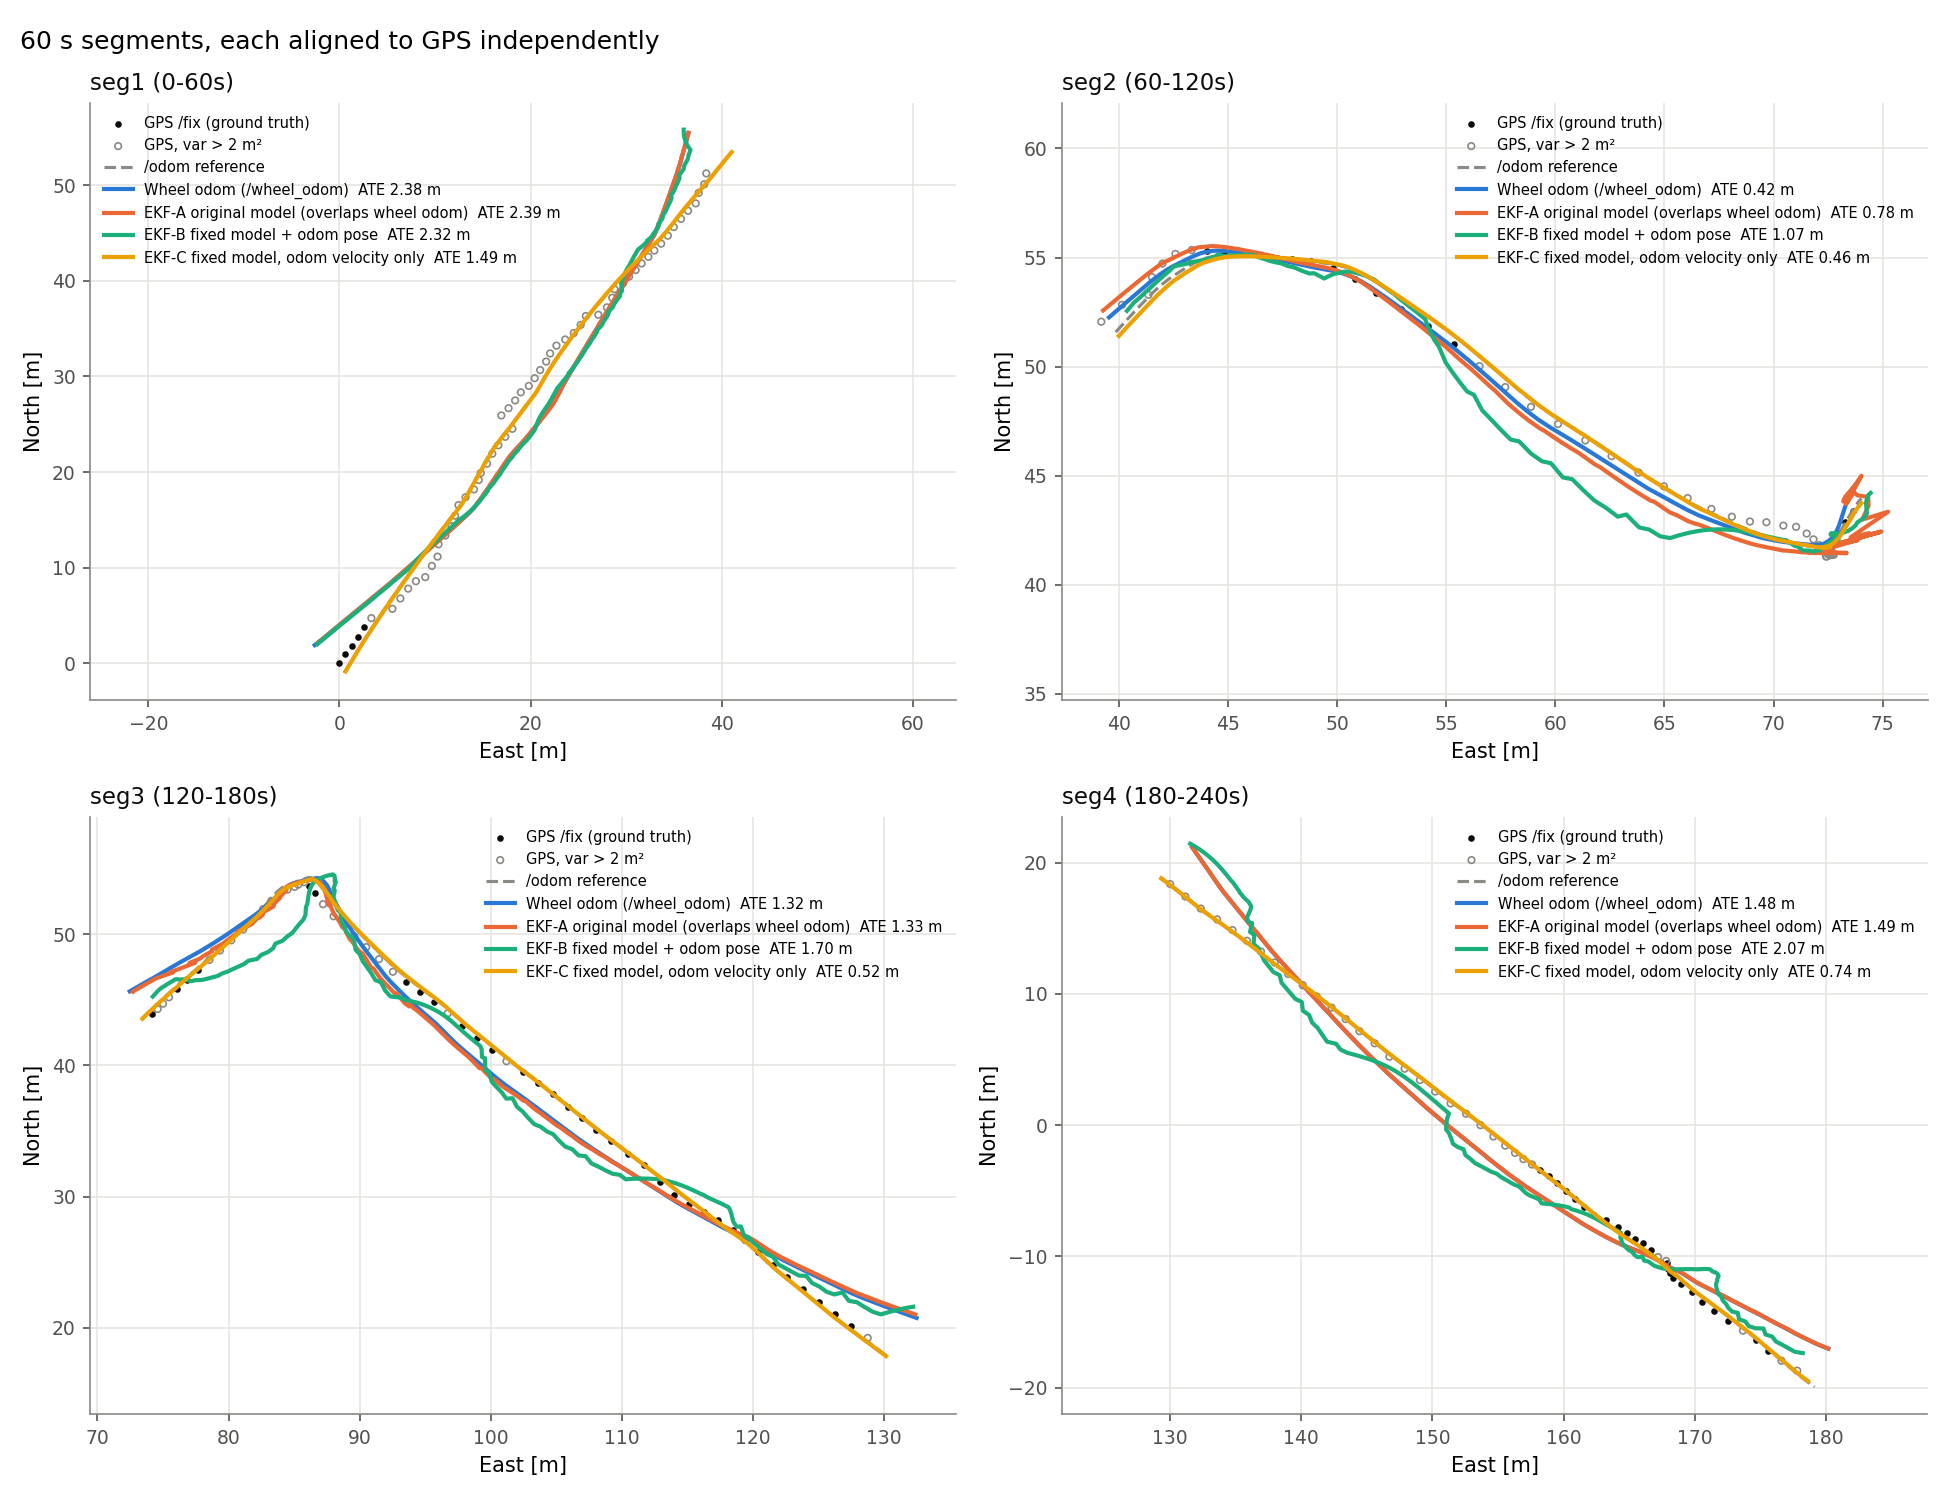
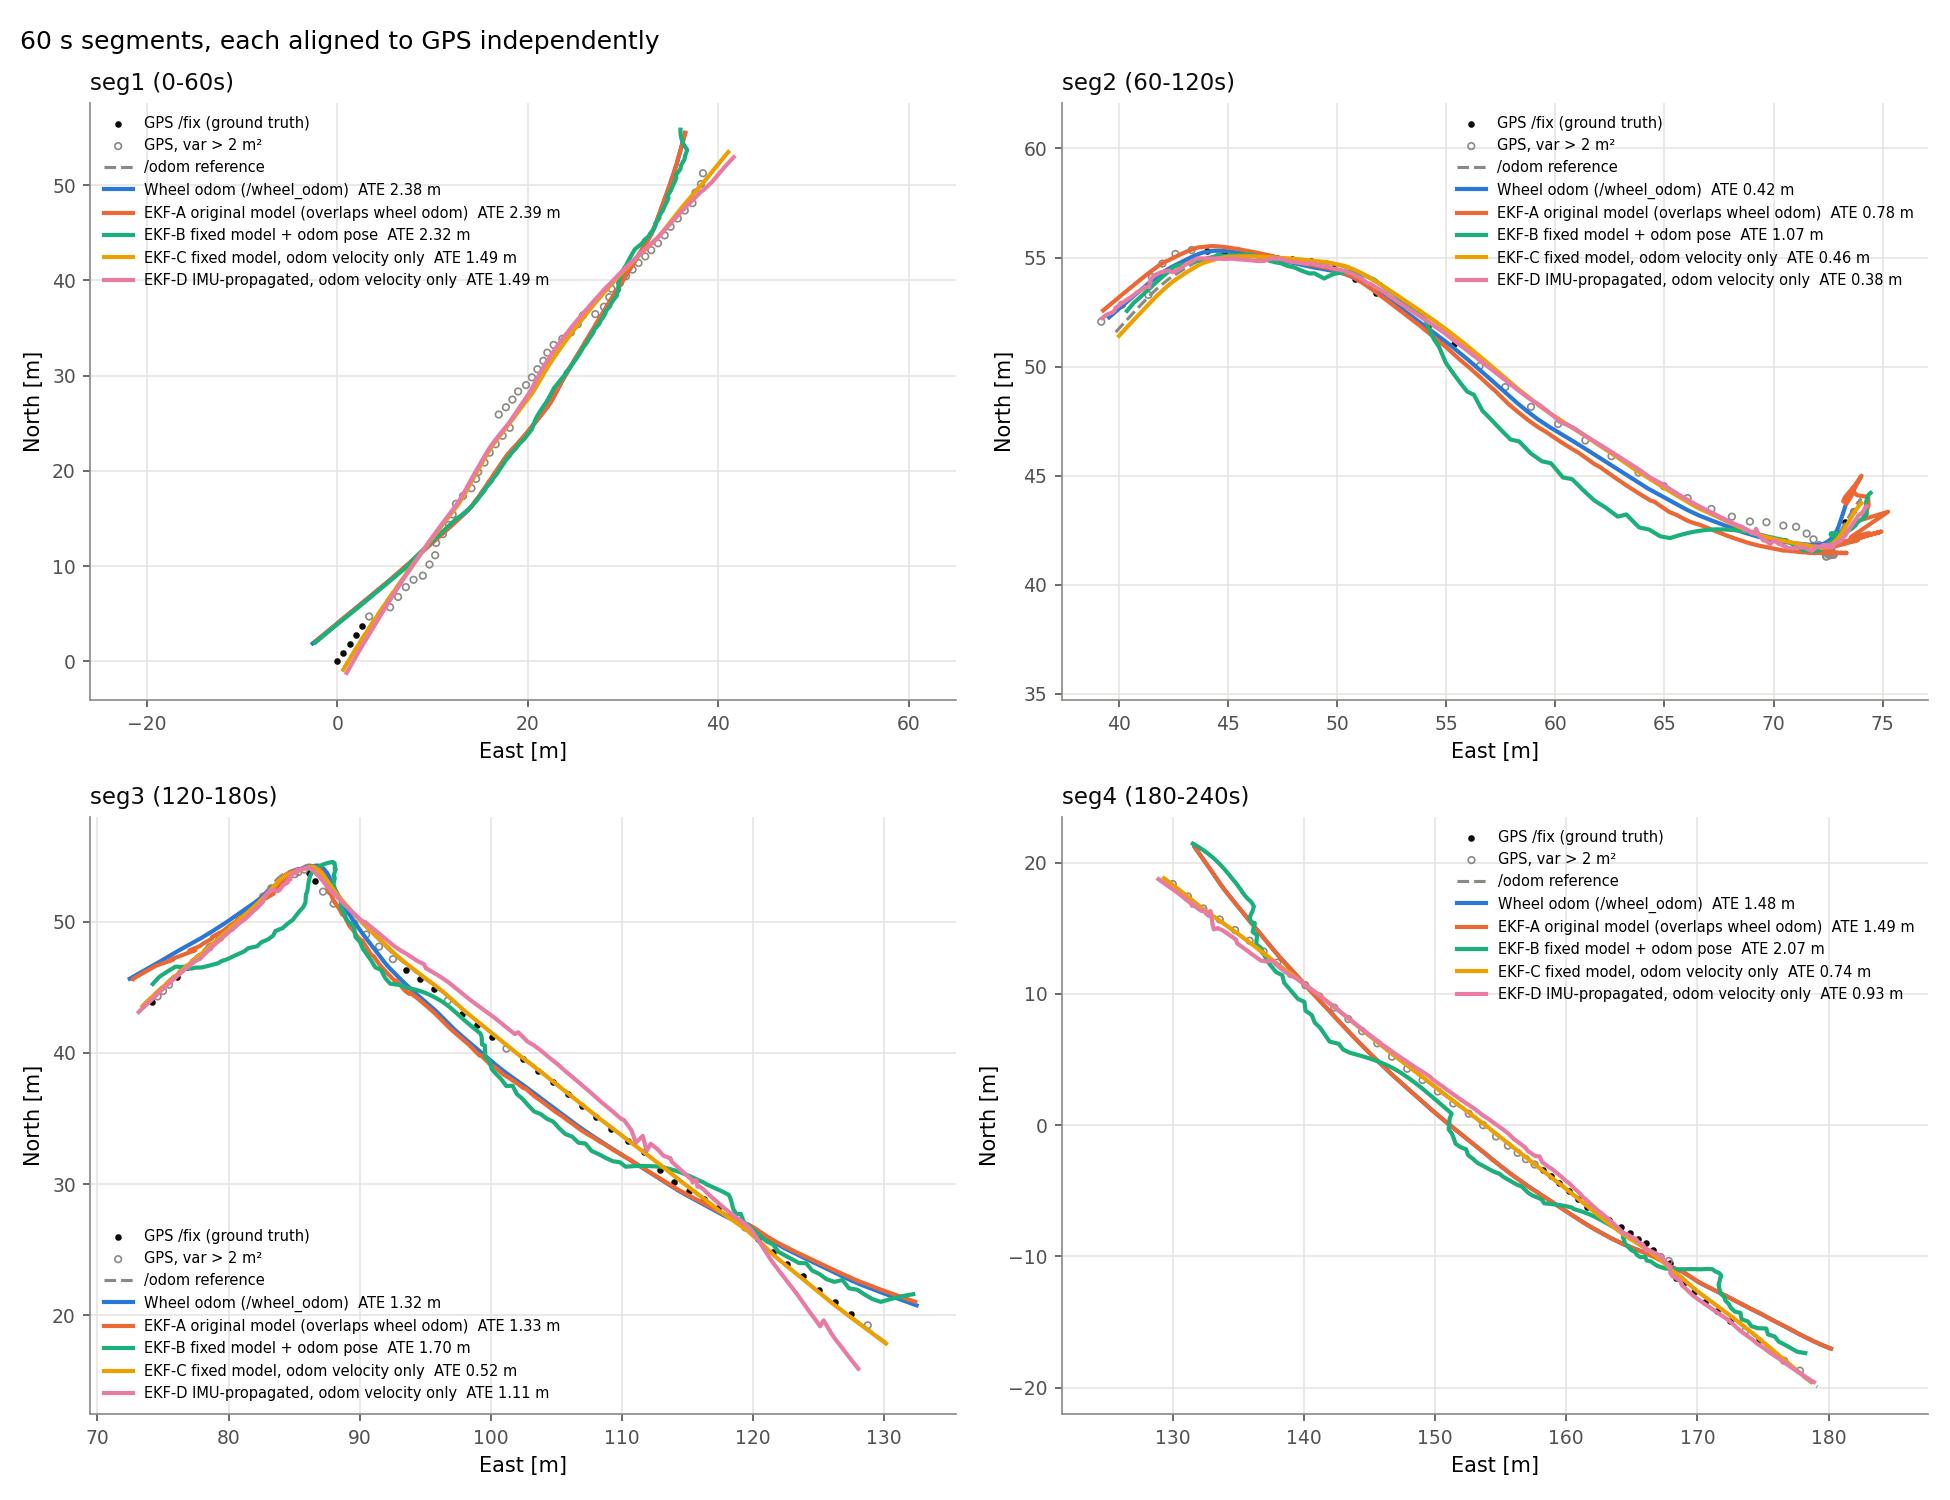
Results: rerun variants A-D with NIS recorded
A-C reproduce the previous numbers. D (IMU-propagated, odom velocity
only): ATE 4.14 m, heading RMSE 7.2 deg, and the only variant whose
position NEES mean falls inside the 95% chi-square bound.

diff --git a/eval/results/metrics.md b/eval/results/metrics.md
@@ -1,22 +1,27 @@
 | window | method | ATE vs GPS [m] | ATE vs GPS, good fixes [m] | ATE vs /odom ref [m] | heading RMSE [deg] | RPE@10 m [m] |
 |---|---|---:|---:|---:|---:|---:|
 | full | wheel_odom | 19.58 | 20.85 | 19.50 | 36.1 | 0.60 |
-| full | A | 19.57 | 20.81 | 19.32 | 18.0 | 4.49 |
+| full | A | 19.57 | 20.81 | 19.32 | 18.0 | 4.48 |
 | full | B | 19.30 | 20.87 | 19.16 | 3.5 | 10.19 |
-| full | C | 1.72 | 1.56 | 0.26 | 1.2 | 0.27 |
+| full | C | 1.71 | 1.55 | 0.26 | 1.2 | 0.27 |
+| full | D | 4.14 | 4.87 | 3.41 | 7.2 | 0.48 |
 | seg1 (0-60s) | wheel_odom | 2.38 | 2.49 | 2.09 | 13.3 | 0.65 |
 | seg1 (0-60s) | A | 2.39 | 2.48 | 2.05 | 6.6 | 1.33 |
 | seg1 (0-60s) | B | 2.32 | 2.42 | 2.00 | 1.3 | 3.59 |
 | seg1 (0-60s) | C | 1.49 | 1.19 | 0.20 | 0.6 | 0.19 |
+| seg1 (0-60s) | D | 1.49 | 1.50 | 0.35 | 2.1 | 0.29 |
 | seg2 (60-120s) | wheel_odom | 0.42 | 0.29 | 0.36 | 5.9 | 0.31 |
 | seg2 (60-120s) | A | 0.78 | 0.77 | 0.81 | 2.9 | 1.66 |
 | seg2 (60-120s) | B | 1.07 | 0.60 | 0.89 | 1.3 | 7.29 |
-| seg2 (60-120s) | C | 0.46 | 0.33 | 0.15 | 1.5 | 0.29 |
+| seg2 (60-120s) | C | 0.46 | 0.33 | 0.14 | 1.5 | 0.29 |
+| seg2 (60-120s) | D | 0.38 | 0.29 | 0.27 | 3.8 | 0.73 |
 | seg3 (120-180s) | wheel_odom | 1.32 | 1.44 | 1.39 | 8.7 | 0.54 |
 | seg3 (120-180s) | A | 1.33 | 1.43 | 1.48 | 4.4 | 4.08 |
 | seg3 (120-180s) | B | 1.70 | 1.65 | 1.75 | 1.8 | 10.53 |
 | seg3 (120-180s) | C | 0.52 | 0.51 | 0.12 | 1.8 | 0.35 |
+| seg3 (120-180s) | D | 1.11 | 1.17 | 0.88 | 5.4 | 0.58 |
 | seg4 (180-240s) | wheel_odom | 1.48 | 1.27 | 1.38 | 10.1 | 0.48 |
 | seg4 (180-240s) | A | 1.49 | 1.28 | 1.38 | 5.1 | 7.48 |
 | seg4 (180-240s) | B | 2.07 | 1.92 | 1.95 | 1.2 | 15.11 |
-| seg4 (180-240s) | C | 0.74 | 0.72 | 0.10 | 0.7 | 0.19 |
+| seg4 (180-240s) | C | 0.74 | 0.71 | 0.10 | 0.7 | 0.18 |
+| seg4 (180-240s) | D | 0.93 | 0.88 | 0.38 | 2.3 | 0.34 |

diff --git a/eval/results/consistency.md b/eval/results/consistency.md
@@ -1,0 +1,29 @@
+Full run. "in band" is the share of samples inside the per-sample 95% chi-square region (ideal 95%). "(over)" means the mean is above the 95% bound for the mean, i.e. the filter is overconfident; "(under)" means underconfident.
+
+### NIS (innovation vs S)
+
+| variant | mean | dof | 95% bound on mean | in band |
+|---|---:|---:|---:|---:|
+| A | 34.4 (over) | 7 | 6.78-7.22 | 30 % |
+| B | 173 (over) | 9 | 8.75-9.25 | 11 % |
+| C | 0.919 (under) | 6 | 5.80-6.21 | 16 % |
+| D | 0.226 (under) | 2 | 1.88-2.12 | 29 % |
+
+### Position NEES vs GPS
+
+| variant | mean | dof | 95% bound on mean | in band |
+|---|---:|---:|---:|---:|
+| A | 407 (over) | 2 | 1.75-2.26 | 16 % |
+| B | 361 (over) | 2 | 1.75-2.26 | 17 % |
+| C | 0.298 (under) | 2 | 1.75-2.26 | 61 % |
+| D | 2.2 | 2 | 1.75-2.26 | 82 % |
+
+### Heading NEES vs /odom reference
+
+| variant | mean | dof | 95% bound on mean | in band |
+|---|---:|---:|---:|---:|
+| A | 4.76 (over) | 1 | 0.92-1.09 | 61 % |
+| B | 12.3 (over) | 1 | 0.92-1.09 | 44 % |
+| C | 1.4 (over) | 1 | 0.92-1.09 | 86 % |
+| D | 1.15 (over) | 1 | 0.92-1.09 | 99 % |
+
